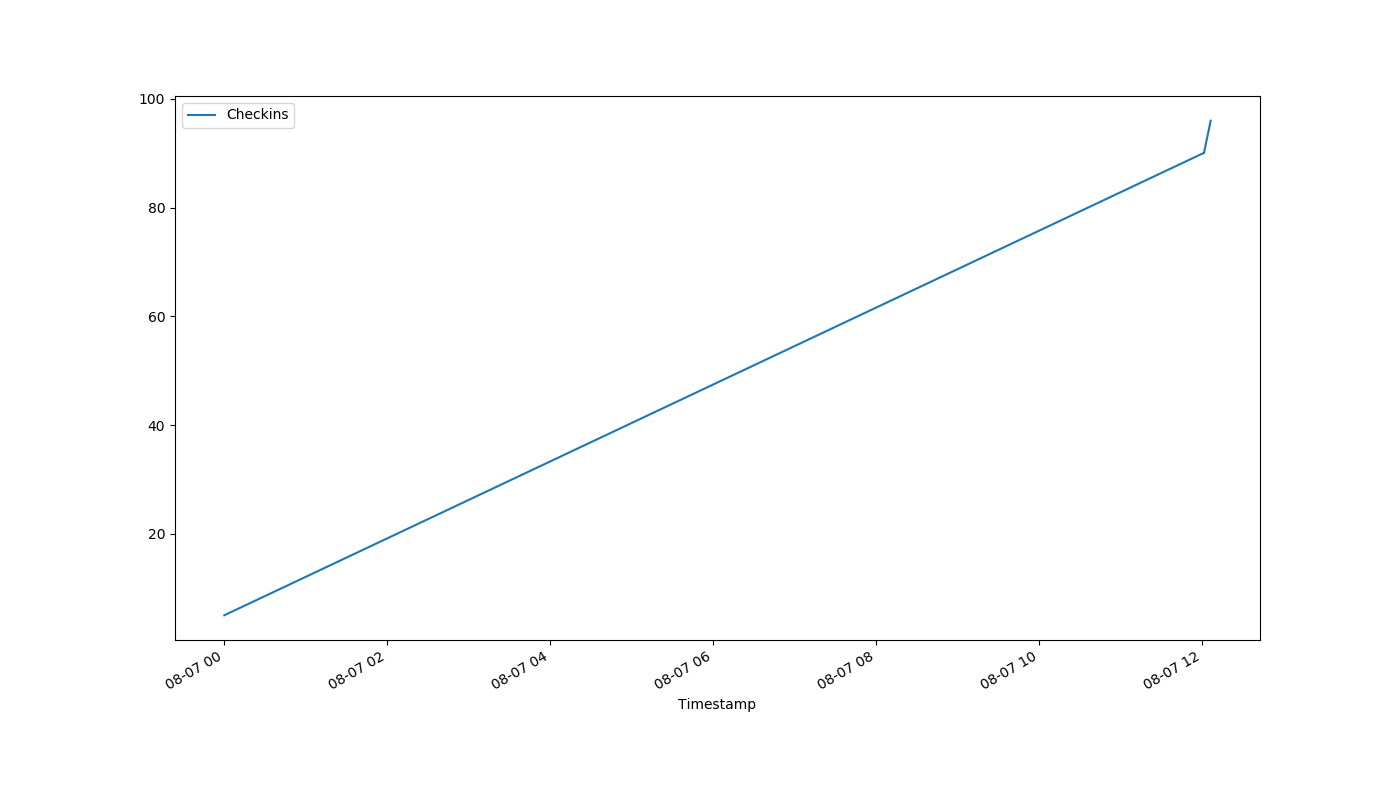
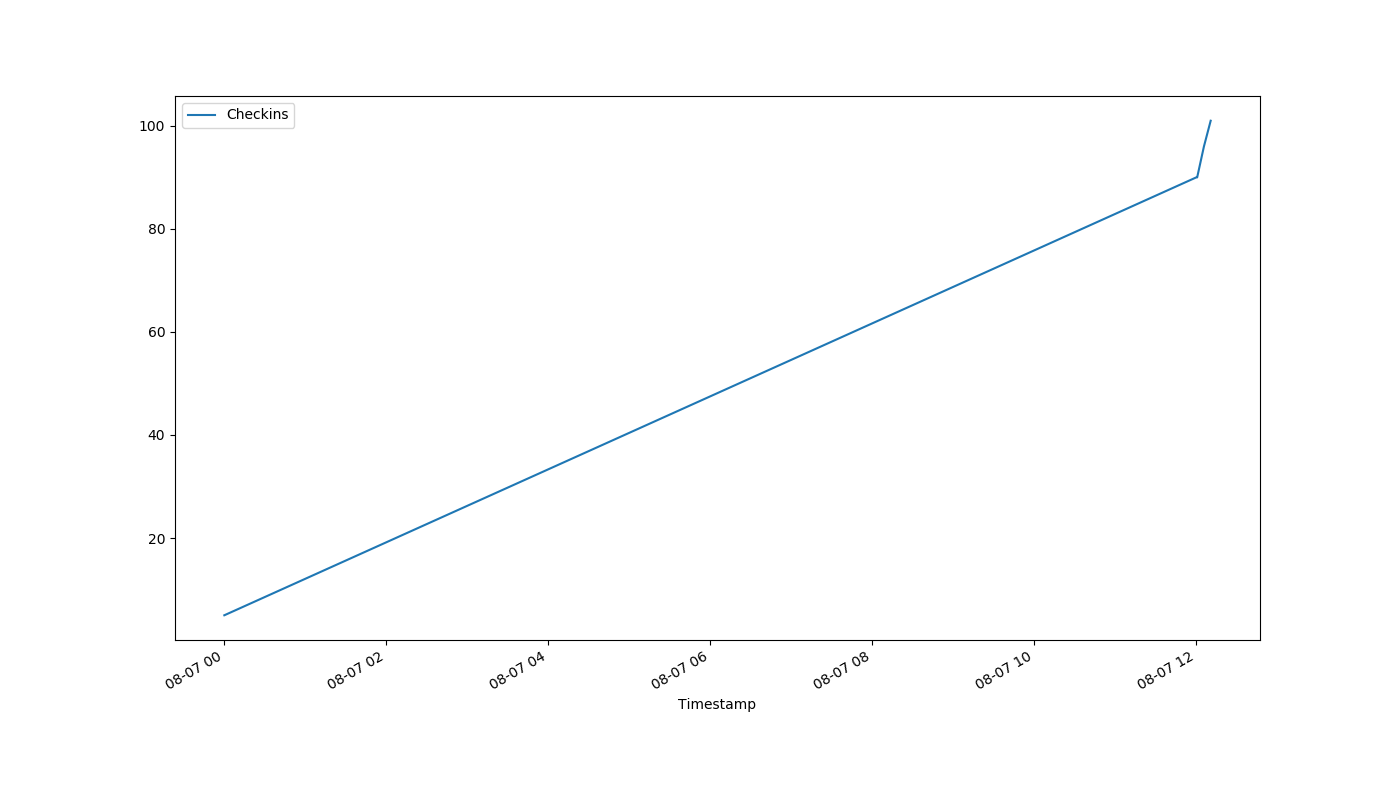
auto-Aug-07-12:11:23

diff --git a/index.html b/index.html
@@ -1,1 +1,1 @@
-<!DOCTYPE html><html><head><meta http-equiv="refresh" content="30"><link rel='stylesheet' href='holmcurrent.css'></head><body><p id='count'>96</p><div id='graph-wrap'><img id='graph' src='holmgraph-Aug-07.png'></div><p id='updated'>Last updated 12:06:09 / 12:06:01</p></body></html>
+<!DOCTYPE html><html><head><meta http-equiv="refresh" content="30"><link rel='stylesheet' href='holmcurrent.css'></head><body><p id='count'>101</p><div id='graph-wrap'><img id='graph' src='holmgraph-Aug-07.png'></div><p id='updated'>Last updated 12:11:09 / 12:11:02</p></body></html>
